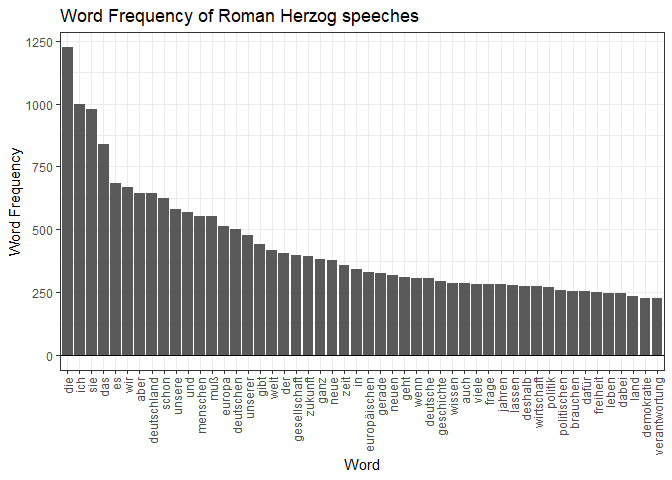
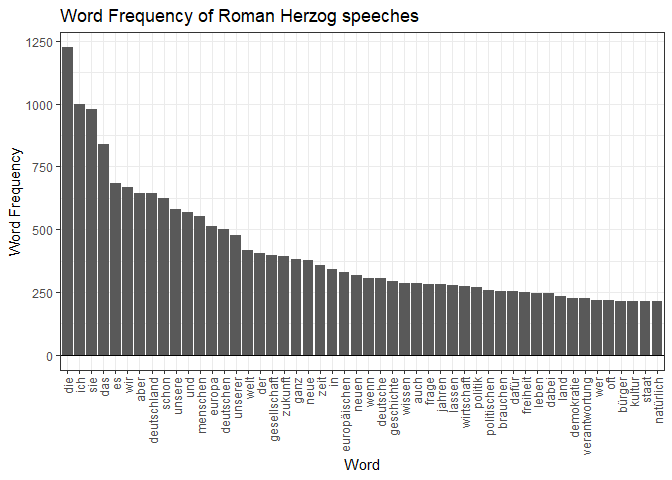
new md

diff --git a/Projects/neophilology/winterstetter_solution.md b/Projects/neophilology/winterstetter_solution.md
@@ -89,7 +89,9 @@
     single_string_count <- single_string |> VectorSource() |> VCorpus() |> tm_map(removePunctuation) |>
       tm_map(removeNumbers) |> tm_map(stripWhitespace) |>
       tm_map(removeWords, stopwords("de")) |>
-      tm_map(removeWords, c("quot", "die", "ich", "sie", "mehr", "das", "heute", "es", "immer", "müssen")) |>     tm_map(removeWords, c("in", "ja", "der"))
+      tm_map(removeWords, c("quot", "die", "ich", "sie", "mehr", "das", "heute", "es", "immer", "müssen")) |>
+      tm_map(removeWords, c("und", "muß", "in", "gerade", "wenn", "auch", "viele", "deshalb", "gibt", "geht")) |>
+      tm_map(removeWords, c("in", "ja", "der"))
 
     single_string_count |> freq_terms(10000) |> 
       arrange(desc(FREQ)) |> top_n(n = 50) |> 
